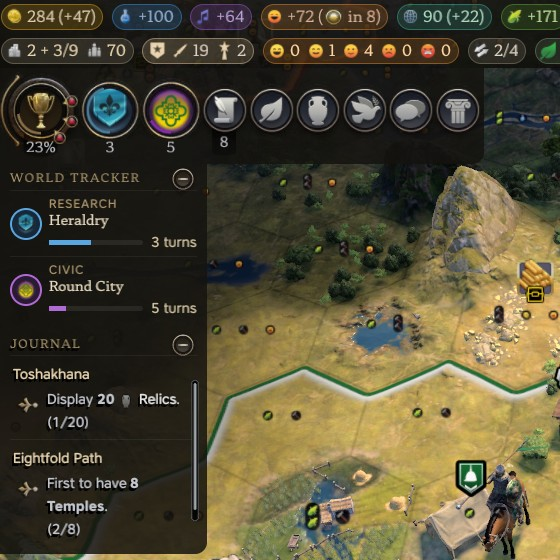
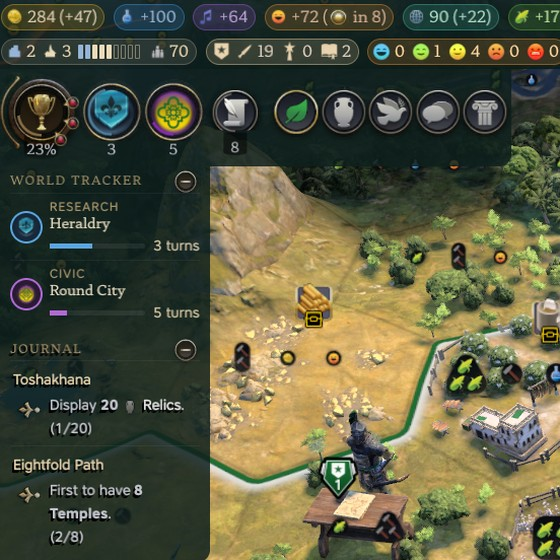
Docs and screenshots for HUD Overhaul 1.3.0 and Top Bar and Tooltips 1.2.0 (#10)
* HUD Overhaul 1.3.0, Top Bar and Tooltips 1.2.0

* Retake the screenshots with the new settlements pill, missionaries and civ symbols

* Rewrite the docs without questions, slogans and asides, and add those rules to the writing style

The README and the HUD Overhaul Workshop page also say the civ symbol
shows when a leader's yields are hidden.

* Make both Workshop previews from the new screenshots

diff --git a/README.md b/README.md
@@ -1,27 +1,21 @@
 # Pablo's HUD Overhaul
 
-This mod reworks the main game screen, drawing on Civilization VI and on
-popular UI mods for Civ VI and VII. It does three things:
-
-- **Less wasted space**: oversized elements are smaller and sit flush with
-  the screen's edges. They still follow the game's text size and UI scaling,
-  and each can be made bigger or smaller, or given back to the game.
-- **More information at a glance**: the top bar gains pills for food,
-  production, your units, happiness levels, trade routes, resources,
-  treasure convoys, great works, religion and victory standings.
-- **Compact and detailed tooltips**: hover a pill for a summary, or click it
-  for a complete breakdown, settlement by settlement and source by source.
-  Your whole game is there from the main screen.
+HUD Overhaul makes the main screen's panels smaller and sets them flush
+with the screen's edges, as in Civilization VI. The top bar gets pills for
+food, production, your units, happiness levels, trade routes, resources,
+treasure convoys, great works, religion and victory standings. Hover a pill
+for a summary of where its number comes from, or click it for each
+settlement's figures by source. Each part follows the game's text size and
+UI scaling, and can be resized or given back to the game.
 
 It aims to work alongside other UI mods: see [Compatibility](#compatibility)
 for the ones tested with it.
 
-Only want the pills and tooltips? See
+For the pills and tooltips without the rest, see
 [Pablo's Top Bar and Tooltips](#pablos-top-bar-and-tooltips).
 
-Want to know where a tile's yields come from as well?
 [Pablo's Better Yield Tooltip](https://steamcommunity.com/sharedfiles/filedetails/?id=3809254963)
-breaks them down when you hover a tile.
+breaks down a tile's yields when you hover it.
 
 **Before**
 
@@ -74,8 +68,8 @@ when it has none.
 
 ### World Tracker
 
-Straight from Civ VI: your current research and civic under the dock, with
-a progress bar and the turns left. Click a row to choose the next one, or
+As in Civ VI, your current research and civic sit under the dock, with a
+progress bar and the turns left. Click a row to choose the next one, or
 the +/- on the heading to collapse it. You can show the World Tracker, the
 dock's research and civic rings, or both.
 
@@ -88,8 +82,8 @@ dock's research and civic rings, or both.
 The leader ribbon moves into the top right corner, as in Civ VI, smaller and
 with no gaps between leaders. Your own leader stays in the corner, and each
 leader you meet lines up to the left. Each leader's yields sit straight
-under the portrait, with their civ's symbol below, and you choose when they
-show.
+under the portrait, with their civ's symbol below. The symbol always shows.
+You choose when the yields show.
 
 It adds rows for combat strength, religion with its share of the world, and
 in the Modern Age ideology. War support is a larger badge on the portrait's
@@ -98,10 +92,10 @@ corner.
 Combat strength uses the formula from
 [Drongo's Leader Ribbons](https://steamcommunity.com/sharedfiles/filedetails/?id=3734152860),
 with thanks to its author, Drongo from One More Turn, so both mods show the
-same value. Each unit that can attack counts 4 to the power of its best
-strength divided by 17, so a unit 17 points stronger counts four times as
-much. This gives strong units more weight than adding the strengths up
-would, as in combat a few strong units can beat many weak ones.
+same value. Each unit that can attack counts 4^(S/17), where S is its best
+strength, so a unit 17 points stronger counts four times as much. This
+gives strong units more weight than adding the strengths up would, as in
+combat a few strong units can beat many weak ones.
 
 ## Minimap and turn dial
 
@@ -115,8 +109,8 @@ corners, as do the notifications above the dial.
 
 ## Themes and transparency
 
-Don't like the panel colour from the main Civ VII theme? Choose another,
-such as Civ VI blue or my favourite, verdigris. You also set how much of the
+The panels can take another colour in place of Civ VII brown, such as Civ
+VI blue or verdigris. You also set how much of the
 map shows through the top bar, the other panels and the leader ribbon, each
 on its own. Some themes look best at a lower opacity. See [Options](#options).
 
@@ -206,15 +200,13 @@ source.
 ### Settlements
 
 The pill shows your cities and towns, each with its icon, then a slot for
-each settlement the cap allows, then your population. The slots fill with
-your cities in blue and your towns in cream. Settlements over the cap are
-orange, and red once they have made a settlement unhappy. Past the cap,
-faint orange slots show how many more settlements you can found before one
-turns unhappy, with a + when there is room for more than five. The pill
-turns red when you are over the cap, and shows the happiness each
-settlement loses for it: "(-10 each)". For a civ with a limit on cities,
-such as Carthage, the cities show against it, "1/1", in gold once towns can
-no longer become cities.
+each settlement the cap allows, then your population. Cities fill the slots
+in blue and towns in cream. A settlement over the cap is orange, or red once
+settlements start to lose happiness. Faint orange slots show how many more
+you can found before that happens, with a + past five. Over the cap, the
+pill turns red and shows the happiness each settlement loses, such as "(-10
+each)". A civ with a limit on cities, such as Carthage, shows its cities
+against that limit, "1/1", in gold once no more towns can become cities.
 
 The tooltip gives how many more settlements you can found until the cap and
 until one is unhappy. The detailed one gives each town's focus and each
@@ -225,12 +217,12 @@ settlement's growth, urban and rural population and specialists.
 ### Units
 
 Your military units, your civilians and, in the Exploration Age, your
-missionaries, the civs' own among them. The compact tooltip gives your
-combat strength, then your land, naval and air units, your civilians and
-your missionaries by kind. The detailed one lists each unit with the settlement it is in, its
-health, moves and strength, and each commander's army slots, in yellow while
-some are open. An arrow shows the units in an army. Trade ships and caravans
-are left out, as they take no orders.
+missionaries, including civs' unique missionaries. The compact tooltip gives
+your combat strength, then your land, naval and air units, your civilians
+and your missionaries by kind. The detailed one lists each unit with the
+settlement it is in, its health, moves and strength, and each commander's
+army slots, in yellow while some are open. An arrow shows the units in an
+army. Trade ships and caravans are left out, as they take no orders.
 
 ![The units pill's detailed tooltip](docs/images/units-tooltip.png)
 
@@ -299,8 +291,8 @@ winning.
 All in **Options > Add-ons**, in three groups. Changes show at once.
 
 - **Pablo's HUD Overhaul**:
-  - **Enable HUD Overhaul**: turn it off to see the game's own HUD, and on again.
-    Your other choices are kept.
+  - **Enable HUD Overhaul**: turn it off to see the game's own HUD, and on
+    again. Your other choices are kept.
   - **Theme**: the colour of the top bar, the dock, the World
     Tracker, the Journal and the leader ribbon's backing. Civ VII brown, the
     game's own; Civ VI blue, with a navy top bar; charcoal; walnut;
@@ -318,18 +310,21 @@ All in **Options > Add-ons**, in three groups. Changes show at once.
   - **Top bar size**: the pills, and the turn and date at the top right.
   - **Detailed tooltips**, with **Tooltip size**: off, the pills show the
     game's text tooltips.
-  - **Rings and World Tracker**, with the size of each and **World
-    Tracker**: where your research and civic show. Both, in the World
-    Tracker and in the research and civic rings at the top of the dock; the
-    World Tracker only, with the rings hidden; or the rings only, with the
-    World Tracker hidden. Off, the game's own dock and Journal.
-  - **Leader ribbon**, with its size and **Leader ribbon opacity**, how
-    much of the map shows through its backing. **Leader ribbon yields**:
-    when each leader's yields show. On hover, as in the base game; yours
-    always and the others on hover, as in Civilization VI; or always for
-    everyone. **With Drongo's Leader Ribbons**: only with that mod on. See
-    [Compatibility](#compatibility). Off, the game's own ribbon, or
+  - **Rings and World Tracker**, with the size of each. Off, the game's own
+    dock and Journal.
+    - **World Tracker**: where your research and civic show. Both, in the
+      World Tracker and in the research and civic rings at the top of the
+      dock; the World Tracker only, with the rings hidden; or the rings
+      only, with the World Tracker hidden.
+  - **Leader ribbon**, with its size. Off, the game's own ribbon, or
     Drongo's.
+    - **Leader ribbon opacity**: how much of the map shows through its
+      backing.
+    - **Leader ribbon yields**: when each leader's yields show. On hover, as
+      in the base game; yours always and the others on hover, as in
+      Civilization VI; or always for everyone.
+    - **With Drongo's Leader Ribbons**: only with that mod on. See
+      [Compatibility](#compatibility).
   - **Minimap**, with its size.
   - **Turn dial and notifications**, with the size of each.
 - **Pablo's HUD Overhaul: Top bar**: **Top bar rows**, one or two, and each
@@ -357,6 +352,9 @@ settings are its own, so switching between the two keeps each one's choices.
 
 It has been played with all of these enabled at once:
 
+- **[Chronicles & Myths](https://steamcommunity.com/sharedfiles/filedetails/?id=3799813821)**:
+  its Legacy, Glory and Mythic pills sit after these, drawn as pills of
+  their own colours.
 - **[Map Trix](https://steamcommunity.com/sharedfiles/filedetails/?id=3507072814)**:
   its option for coloured top bar entries gives way to these pills.
 - **[No Gradients](https://steamcommunity.com/sharedfiles/filedetails/?id=3509395646)**:
@@ -434,8 +432,9 @@ No changes needed:
 
 ## Languages
 
-English, French, German, Italian, Polish, Portuguese (Brazil) and Spanish. The translations started as machine translation, with the game's
-own words for its terms, and may read oddly in places. Corrections are
+English, French, German, Italian, Polish, Portuguese (Brazil) and Spanish.
+The translations started as machine translation, with the game's own words
+for its terms, and may read oddly in places. Corrections are
 welcome as an issue or a pull request. In the game's other languages, the
 mod's own text shows in English.
 

diff --git a/CONTRIBUTING.md b/CONTRIBUTING.md
@@ -24,7 +24,7 @@ replacing them. Each script in `ui/` is listed in the modinfo.
 | `.../ui/hud-overhaul-greatworks.js` | the empire's great works as a pill in the top bar, through the game's mod slot, and its option |
 | `.../ui/hud-overhaul-religion.js` | your religion's share of the world's settlements as a pill in the top bar, through the game's mod slot, the data its tooltip reads, and its option |
 | `.../ui/hud-overhaul-trade.js` | trade routes in use against the limit as a pill in the top bar, through the game's mod slot, and its option |
-| `.../ui/hud-overhaul-units.js` | your military units and civilians as a pill in the top bar, through the game's mod slot, the list its tooltip reads, and its option |
+| `.../ui/hud-overhaul-units.js` | your military units, civilians and, in the Exploration Age, missionaries as a pill in the top bar, through the game's mod slot, the list its tooltip reads, and its option |
 | `.../ui/hud-overhaul-happiness.js` | settlements at each happiness level as a pill in the top bar, through the game's mod slot, and its option |
 | `.../ui/hud-overhaul-victories.js` | your place in each victory as a pill in the top bar, through the game's mod slot, the standings its tooltip reads, and its option |
 | `.../ui/hud-overhaul-rows.js` | the top bar's pills on one row or two in a fixed order: moves the game's pills into the mods' slot, adds a line break, puts the victories at the end of the first row, and wraps what does not fit before the top right corner; moves other mods' pills from after the slot into it; the top bar's size, and the option for the rows |
@@ -96,8 +96,8 @@ The fixes for them:
 - **Chronicles & Myths**: `hud-overhaul-rows.js`. It adds its pills to the
   top bar after the mods' slot, which widens the bar past the screen. Any
   such pill moves into the slot after this mod's, and
-  `hud-overhaul-pills.js` draws Chronicles' as pills. Its dock button is wrapped in a box of its own
-  in the dock's mod slot.
+  `hud-overhaul-pills.js` draws Chronicles' as pills. Its dock button is
+  wrapped in a box of its own in the dock's mod slot.
 - **My Cities Overview**: `hud-overhaul-layout.js`. It spaces the dock's mod
   slot and everything in it with `!important` rules, so the dock row's
   rules for that slot use `!important` too.
@@ -154,9 +154,9 @@ cannot load, so the mocks draw flat stand-ins.
 - **Log and bail, never throw**: a throw during load takes other scripts with
   it. `console.error` reaches UI.log; `console.log` does not. Tag log lines
   `[hud-overhaul]`.
-- **Build stamps**: each script that runs on its own has a `BUILD` constant that its "loaded"
-  line in UI.log prints. Bump it on every edit to that file, and
-  `civ7lab logs stamps` shows which build ran.
+- **Build stamps**: each script that runs on its own has a `BUILD` constant
+  that its "loaded" line in UI.log prints. Bump it on every edit to that
+  file, and `civ7lab logs stamps` shows which build ran.
 - **Load-time code**: a new top-level constant, rule or listener only takes
   effect after a game restart. So does a new file or a modinfo change.
 - **Imports**: most scripts import from the game with relative paths
@@ -212,9 +212,9 @@ cannot load, so the mocks draw flat stand-ins.
   without `--game` when `reference/` links there. It also checks the game
   keys against the game, with `--write` to refresh `tools/game-keys.txt`
   and `tools/game-text.txt` after a game patch, and fails on text of the
-  mods' own that the game has too. Switch each to the game's key, or list it in `tools/own-text.txt`
-  with why it stays. It ends with the game's yield labels that have no text,
-  which the tooltips show as Other.
+  mods' own that the game has too. Switch each to the game's key, or list it
+  in `tools/own-text.txt` with why it stays. It ends with the game's yield
+  labels that have no text, which the tooltips show as Other.
 - Bump `version` in the modinfo.
 - If the README's player-facing text changed, update
   `workshop/description.txt` to match. It follows the README's feature
@@ -252,6 +252,23 @@ to say it.
 - **Filler**: every sentence must add a fact, an example or a consequence.
   Do not write meta-framing such as "X is the default; Y is the exception".
   State the rule and give the case.
+- **Questions**: do not ask a question and answer it straight away, such as
+  "Want only some of the mod? Turn off a part". State the fact.
+- **Contrast formulas**: no "not just X", "more than X" or "It's not X,
+  it's Y".
+- **Slogans**: no lists of three bold catchphrases, and no paragraph that
+  ends on a punchline such as "Your whole game is there".
+- **Asides for effect**: no "my favourite", "honestly" or jokes. Say what
+  something does.
+- **Staging**: no "It's worth noting", "The key is", "Notice that" or
+  "Here's the thing".
+- **Decoration**: avoid words such as crucial, seamless, robust, powerful,
+  leverage, unlock and complete when they add no fact.
+- **Clarity**: each sentence must make sense on the first read. Split a run
+  of rules into one sentence each, and write a formula as a formula, such as
+  4^(S/17).
+- **Repeats**: say each thing once. Point to the section that has it rather
+  than copying it.
 - **Names**: do not name individual people in the code, docs or commits.
 
 ## Commit messages
